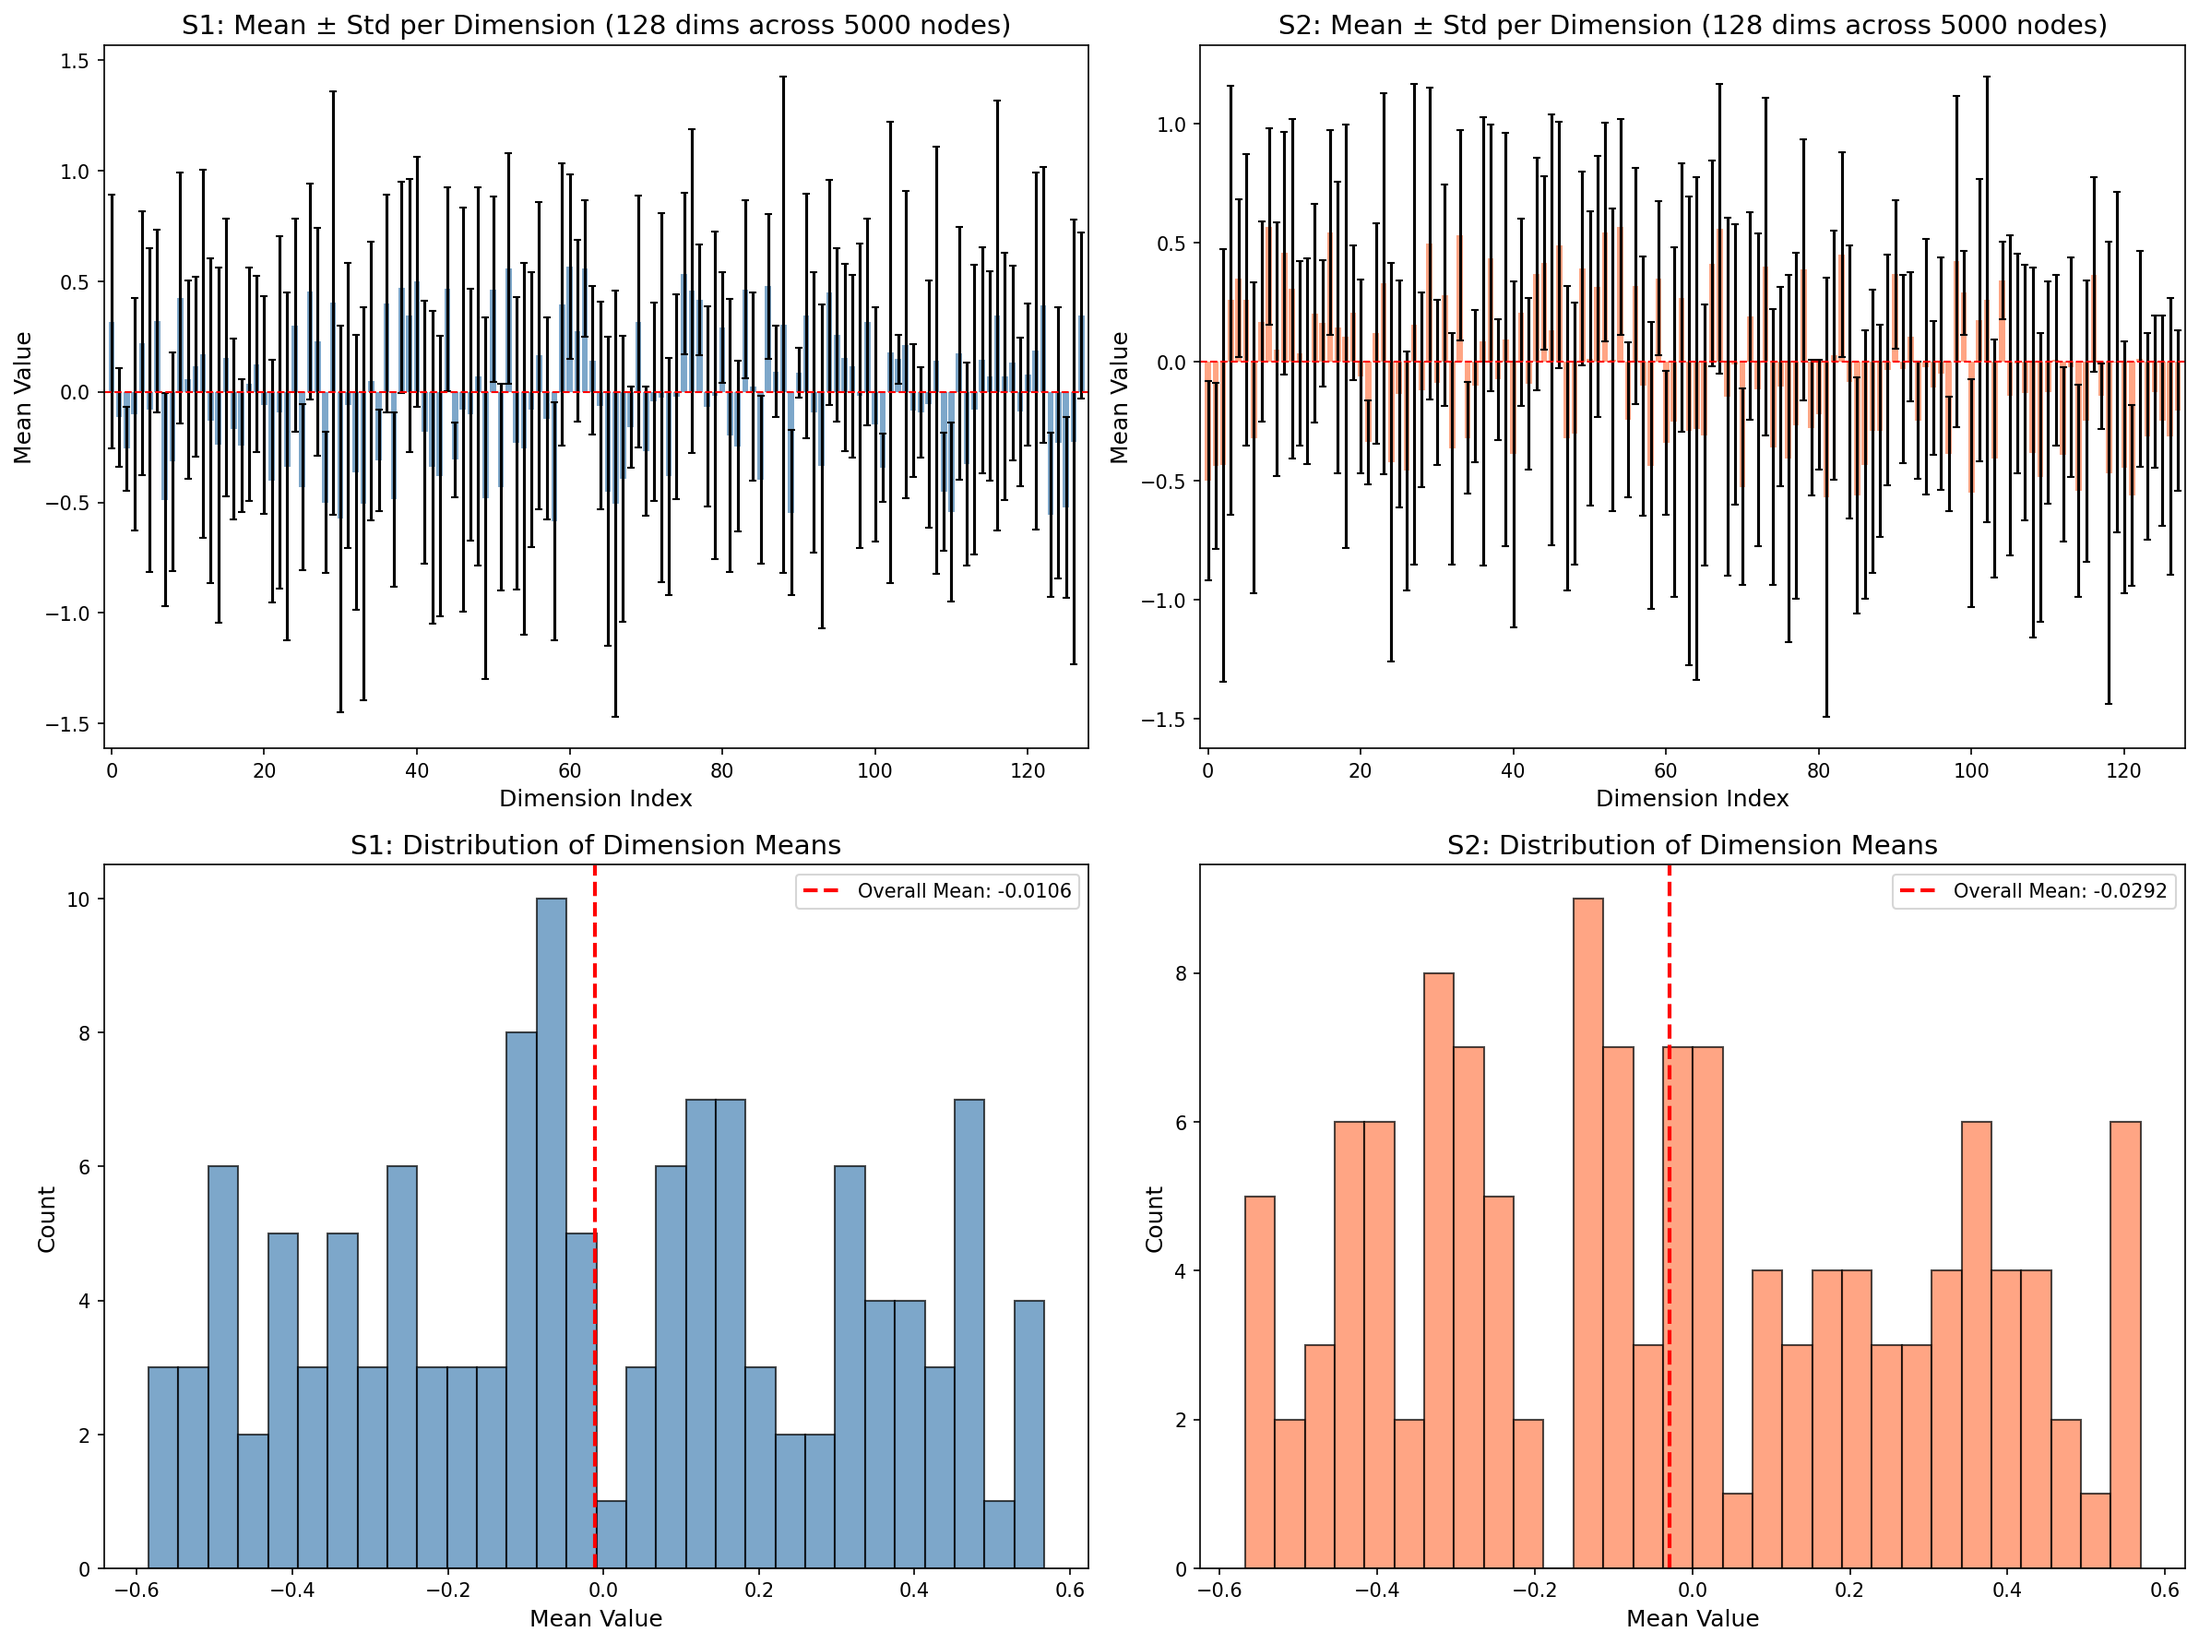
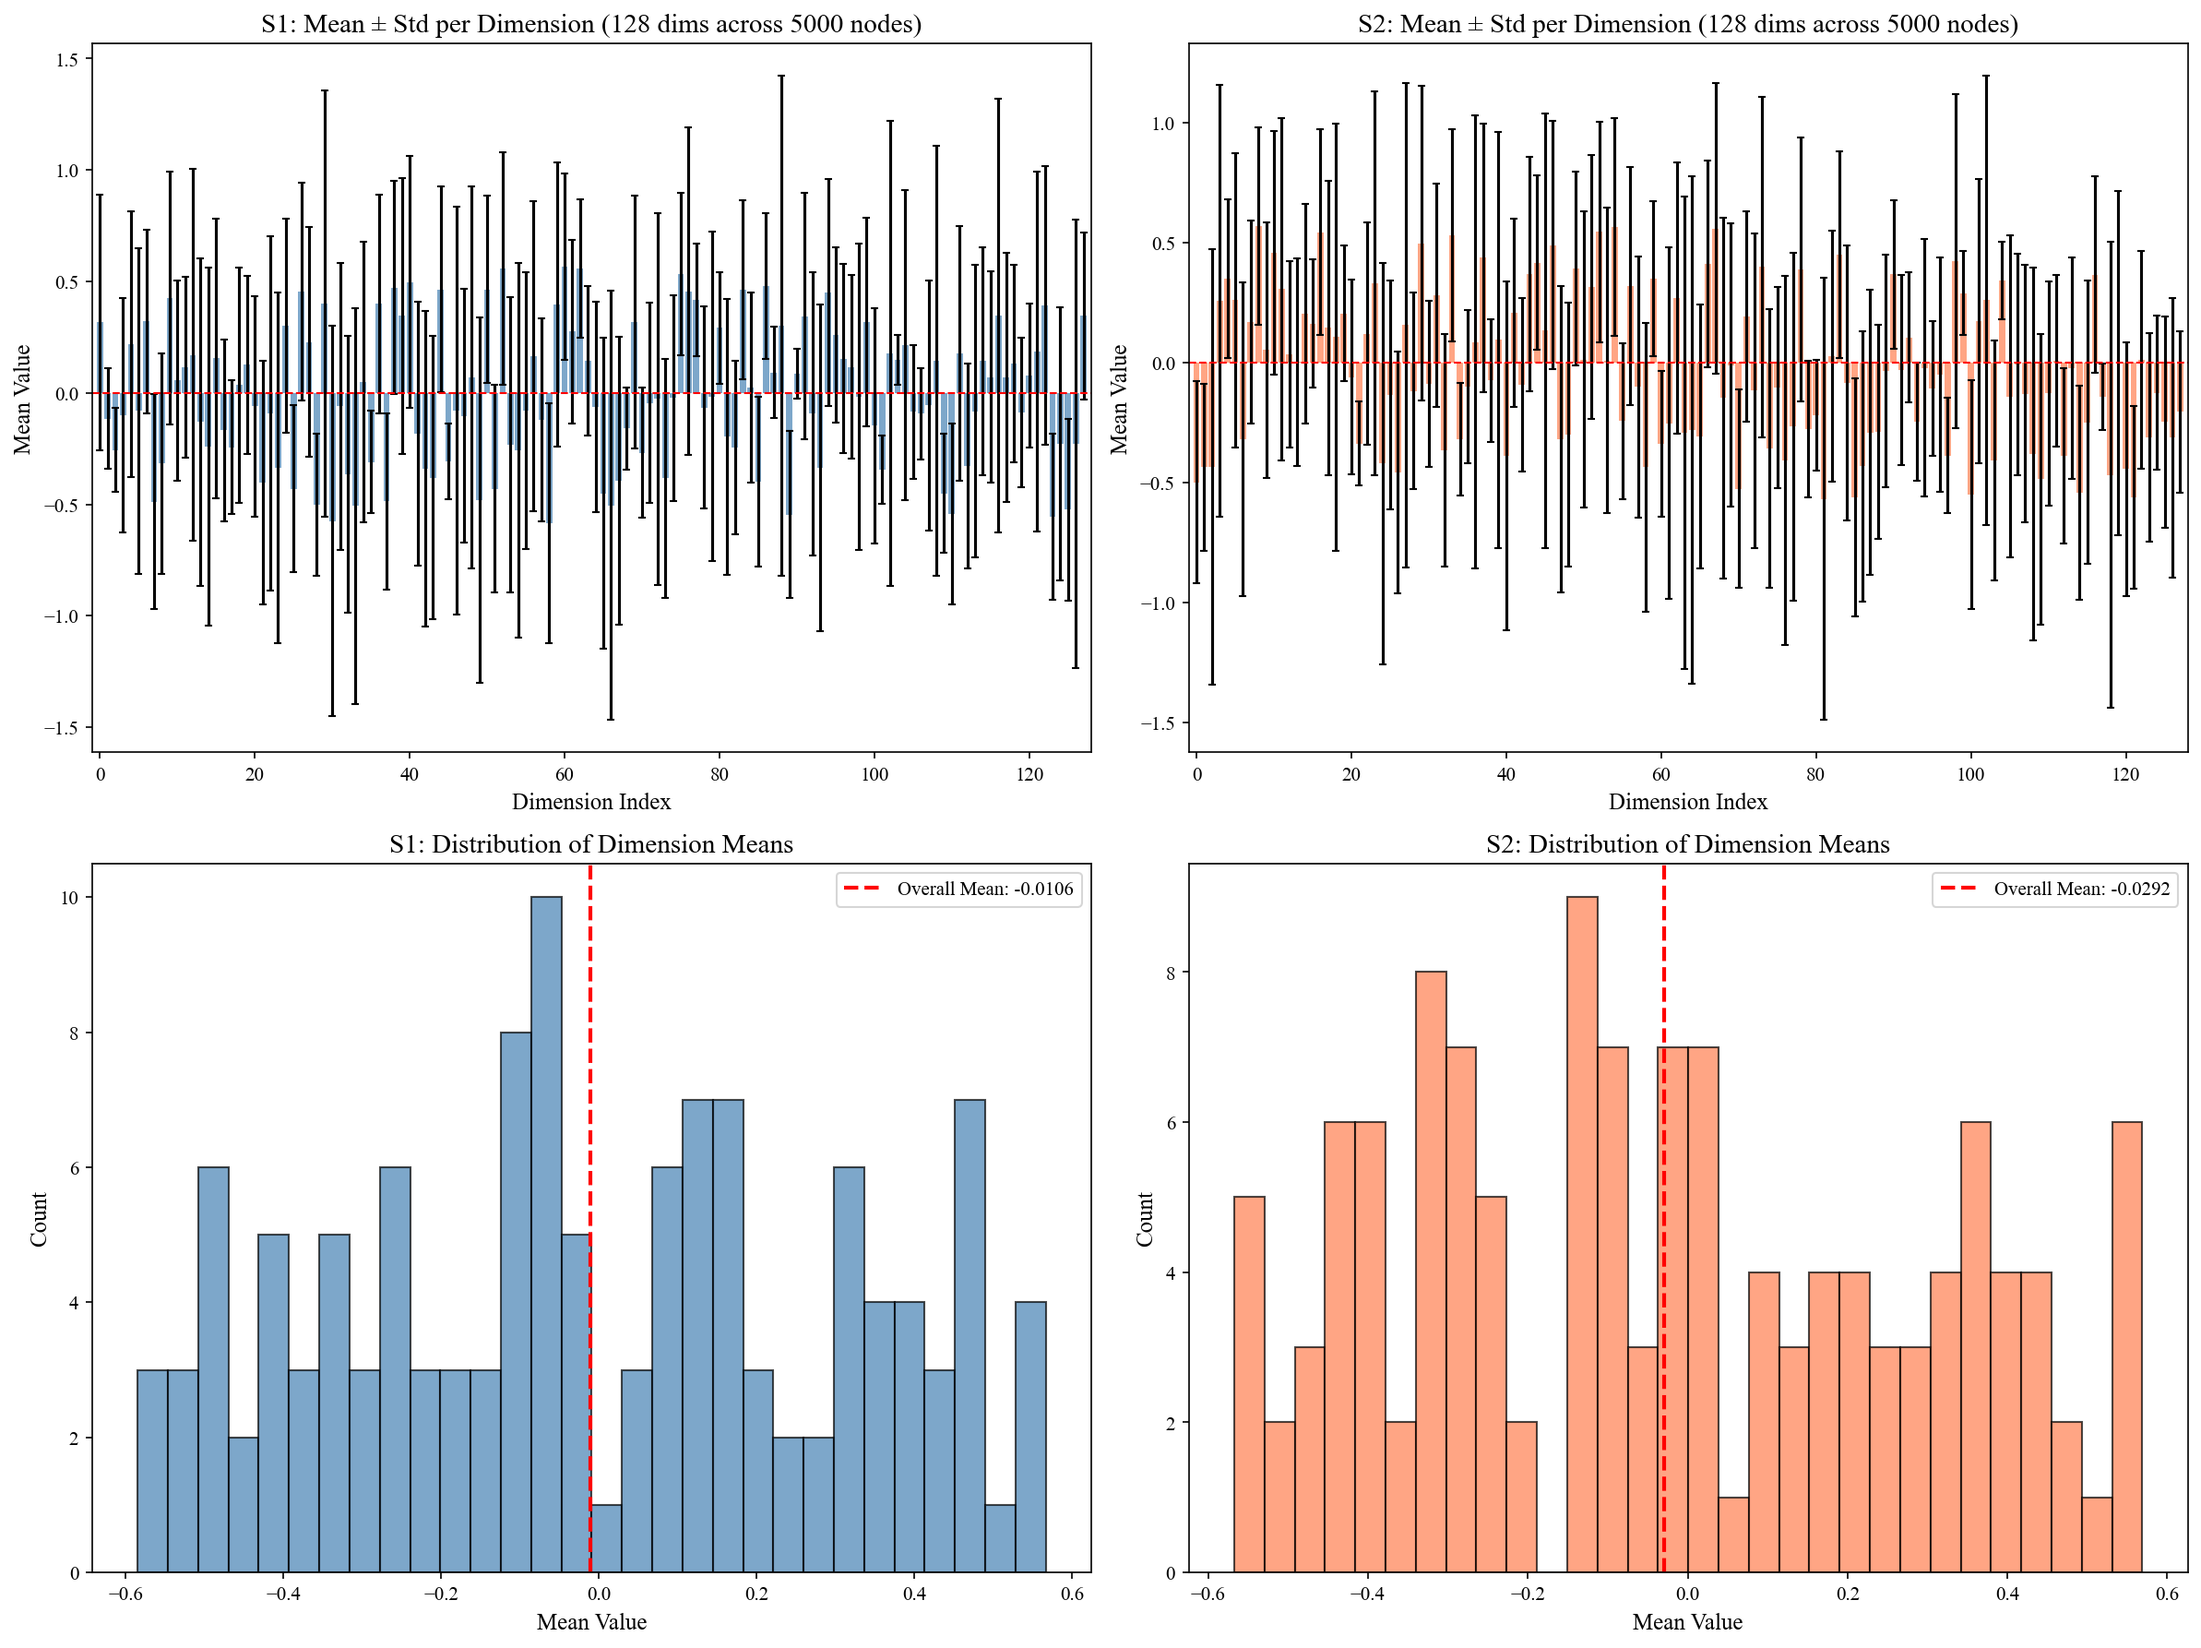
feat: visualize, adult dataset

diff --git a/src/utils/visualization.py b/src/utils/visualization.py
@@ -73,9 +73,9 @@ def visualize_results(logger, x, A_eball, viz_results, n, dataset_name="moon", v
     to_f = to[keep_edge_mask]
     G = nx.DiGraph()
     
-    # 1. 随机采样 10% 的节点
+    # 1. 随机采样 20% 的节点
     np.random.seed(0)
-    num_nodes_to_keep = max(1, int(n * 0.10))
+    num_nodes_to_keep = max(1, int(n * 0.20))
     sampled_nodes = set(np.random.choice(n, num_nodes_to_keep, replace=False))
     
     # 2. 从全量边中，只保留两端都在被采样节点集合中的边
@@ -90,23 +90,36 @@ def visualize_results(logger, x, A_eball, viz_results, n, dataset_name="moon", v
     ax = fig.add_subplot(2, 2, 2)
     
     # spring_layout: 增加 iterations (迭代次数) 和减少 k (斥力) 让图更乱、更紧凑
-    pos = nx.spring_layout(G, k=0.08, iterations=100, seed=0)
+    pos = nx.spring_layout(G, k=0.18, iterations=50, seed=0)
     
+    # 获取节点的二维坐标并做归一化，让图撑满坐标轴
+    pos_ary = np.array(list(pos.values()))
+    if pos_ary.shape[0] > 0:
+        pos_min = pos_ary.min(axis=0)
+        pos_max = pos_ary.max(axis=0)
+        pos_range = pos_max - pos_min
+        pos_range[pos_range == 0] = 1  # 防止除以 0
+        
+        # 将坐标缩放到 [-1, 1] 区间（spring_layout 默认的区间），或者直接缩放到 xlim/ylim 的大小
+        for node in pos:
+            pos[node] = ((pos[node] - pos_min) / pos_range) * 2 - 1
+
     # 画图: 线宽(width)调大，边透明度(alpha)调高，让线更明显
     nx.draw_networkx(G, ax=ax, pos=pos, node_size=2, node_color='#005aff', 
                      labels={i: '' for i in G.nodes()}, 
                      edge_color='#84919e', width=0.1, alpha=0.6, arrows=False)
 
-    txt = ax.text(0.05, 0.05, 'Input Graph (10% Nodes)', color='k', fontsize=14, weight='bold', transform=ax.transAxes)
+    txt = ax.text(0.05, 0.05, 'Input Graph', color='k', fontsize=14, weight='bold', transform=ax.transAxes)
     txt.set_path_effects([PathEffects.withStroke(linewidth=5, foreground='w')])
     ax.set_rasterization_zorder(3)
     # Ensure this subplot has axes visible just like the others
     ax.set_xticks([])
     ax.set_yticks([])
     # Remove ax.axis('off') to keep the bounding box
-    if xlim is not None and ylim is not None:
-        ax.set_xlim(xlim)
-        ax.set_ylim(ylim)
+    
+    # 强制将这幅图的显示范围锁定在 [-1.1, 1.1] 之间，防止它被缩得太小
+    ax.set_xlim(-1.1, 1.1)
+    ax.set_ylim(-1.1, 1.1)
 
     if rec_simple_eball is not None:
         ax = fig.add_subplot(2, 2, 3)

diff --git a/src/main.py b/src/main.py
@@ -271,6 +271,10 @@ def visualize_scale_distribution(s1, s2, output_dir, logger):
     """Visualize scale factor distribution"""
     os.makedirs(output_dir, exist_ok=True)
     
+    # Set global font to Times New Roman
+    plt.rcParams['font.family'] = 'serif'
+    plt.rcParams['font.serif'] = ['Times New Roman']
+    
     n_nodes, n_dims = s1.shape
     logger.info(f"📊 Scale data dimensions: {n_nodes} nodes × {n_dims} dimensions")
     
@@ -484,10 +488,10 @@ def main():
     aligned_eball, score_eball, s1_eball, s2_eball = run_training(n, x, train_ind, edge_index_eball, density_eball, A_eball, "EBALL", training_cfg, graph_cfg)
     viz_results["GraphSAGE_SimpleScale_EBALL"] = (aligned_eball, score_eball)
     
-    # scale_output_dir = os.path.join("outputs", dataset_name, "scale_analysis")
-    # logger.info(f"📊 Generating scale visualizations...")
-    # visualize_scale_distribution(s1_eball, s2_eball, scale_output_dir, logger)
-    # logger.info(f"✅ Scale visualizations saved to: {scale_output_dir}")
+    scale_output_dir = os.path.join("outputs", dataset_name, "scale_analysis")
+    logger.info(f"📊 Generating scale visualizations...")
+    visualize_scale_distribution(s1_eball, s2_eball, scale_output_dir, logger)
+    logger.info(f"✅ Scale visualizations saved to: {scale_output_dir}")
 
     logger.info("🔥 start knn training...")
     aligned_knn, score_knn, s1_knn, s2_knn = run_training(n, x, train_ind, edge_index_knn, density_knn, A_knn, "KNN", training_cfg, graph_cfg)

diff --git a/src/utils/datasets.py b/src/utils/datasets.py
@@ -1,3 +1,5 @@
+import os
+import csv
 import numpy as np
 from sklearn.datasets import (
     make_moons,
@@ -86,6 +88,28 @@ def generate_wave(n=5000, noise=0.1):
     return x, "Wave"
 
 
+def generate_adult(n=5000):
+    """Adult 数据集"""
+    x = []
+    # adult.data 和 datasets.py 的相对路径关系
+    data_path = os.path.join(os.path.dirname(os.path.dirname(__file__)), 'adult.data')
+    with open(data_path) as f:
+        reader = csv.reader(f)
+        for r in reader:
+            if len(r) == 15 and int(r[0]) < 90 and 1000 < int(r[10]) and int(r[10]) < 99999:
+                x.append([int(r[0]), np.log10(int(r[10]))])
+
+    x = np.array(x)
+    mu = np.mean(x, axis=0, keepdims=True)
+    std = np.std(x, axis=0, keepdims=True)
+    x = (x - mu) / std
+    if n is not None and n < len(x):
+        np.random.seed(0)
+        idx = np.random.choice(len(x), n, replace=False)
+        x = x[idx]
+    return x, "Adult"
+
+
 def get_all_datasets(n=5000):
     """获取所有数据集"""
     datasets = [
@@ -99,6 +123,7 @@ def get_all_datasets(n=5000):
         generate_ring(n),
         generate_line(n),
         generate_wave(n),
+        generate_adult(n),
     ]
     return datasets
 
@@ -116,6 +141,7 @@ def get_dataset_by_name(name, n=5000):
         "ring": generate_ring,
         "line": generate_line,
         "wave": generate_wave,
+        "adult": generate_adult,
     }
     func = dataset_map.get(name.lower())
     if func:
